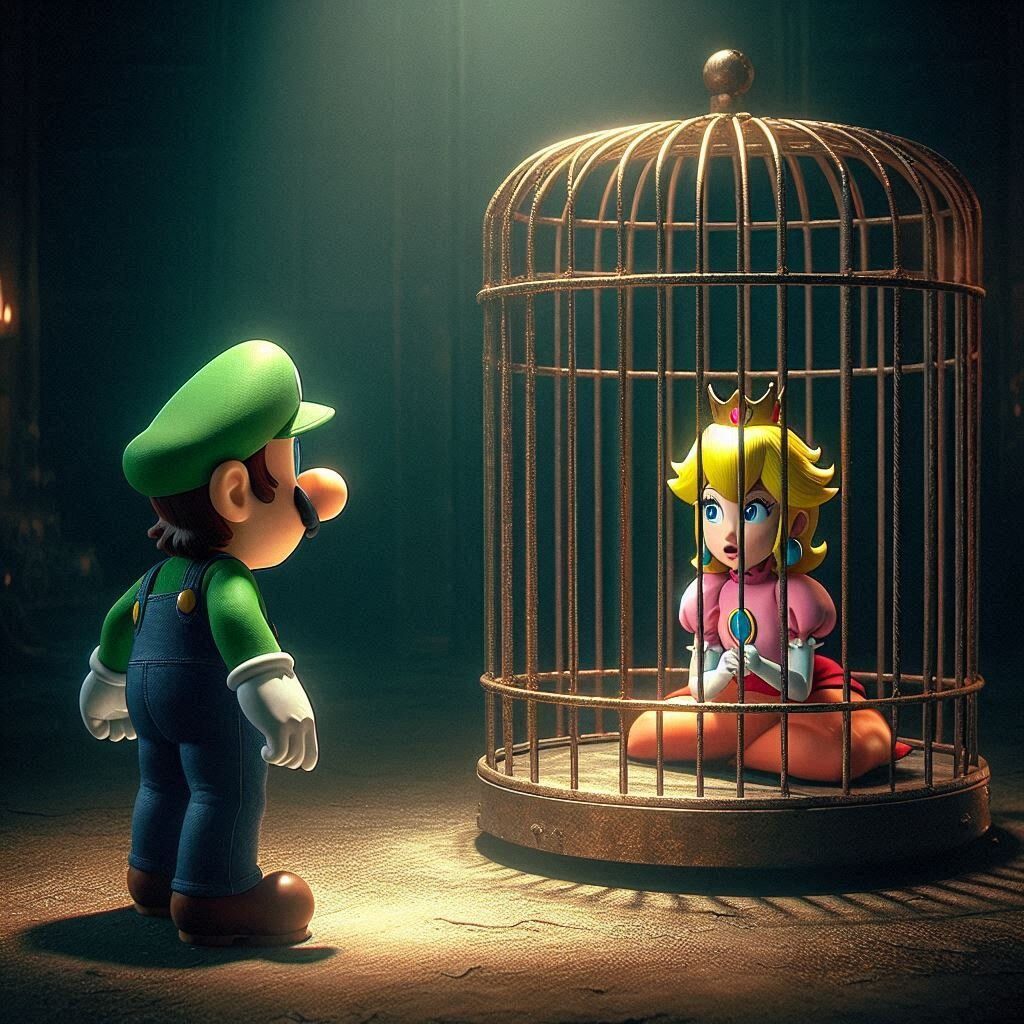
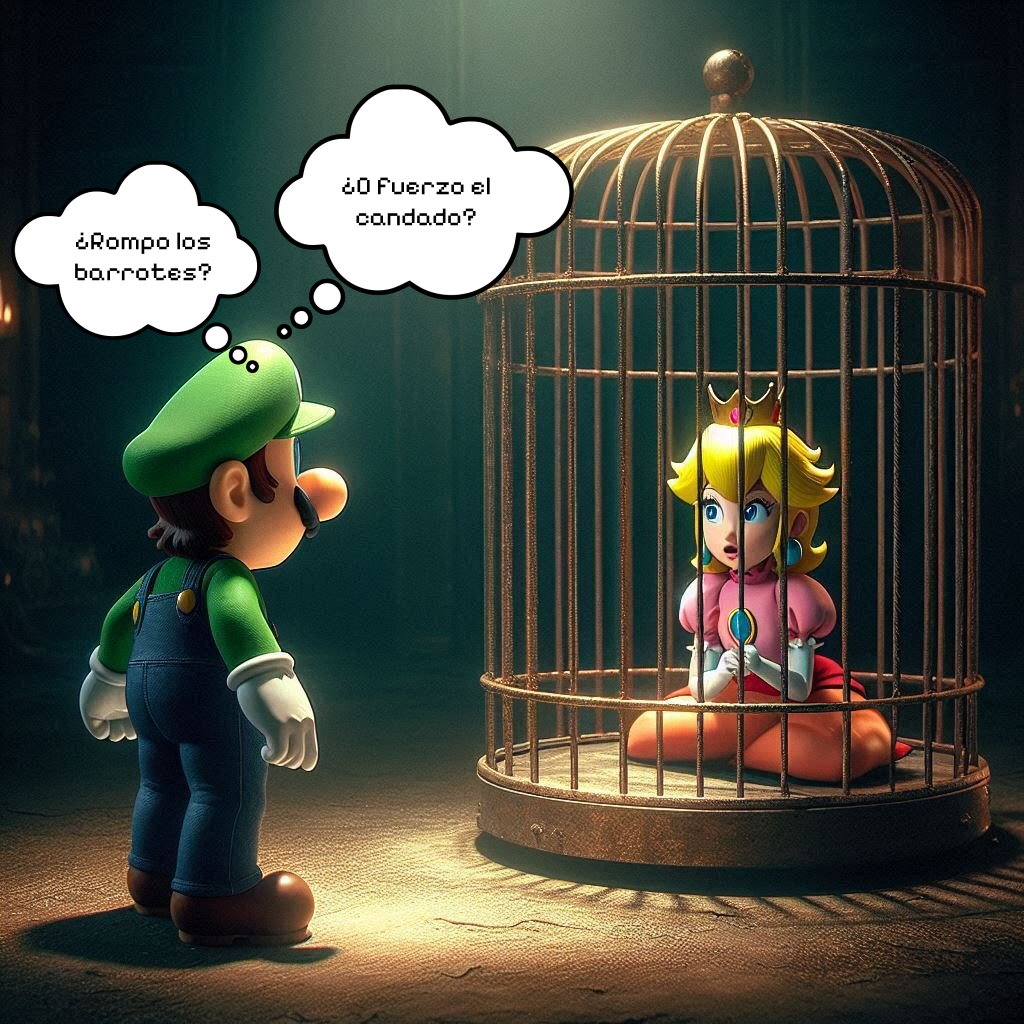
Add files via upload

Changed region(s): [[0.0, 0.0625, 0.5625, 0.375]]

diff --git a/prueba2/funciones.js b/prueba2/funciones.js
@@ -1,11 +1,35 @@
 function preload() {
+boton = loadImage("data/boton.png");  
 for(let m = 0; m < cantidadImg; m++) {
   imagenes[m] = loadImage("data/imagen" + m + ".jpg");
   }}
   
-function avanzar() {
-pantallaActual++;
-if (pantallaActual >= cantidadImg) {
-  pantallaActual = 0;
+function avanzar(opciones, pantallaOpcion1, pantallaOpcion2) {
+  if (opciones) {
+   if (mouseX > 72 && mouseX < 221 && mouseY > 178 && mouseY < 231){
+     pantallaActual = pantallaOpcion1;
+     } else if (mouseX > 431 && mouseX < 576 && mouseY > 175 && mouseY < 224){
+       pantallaActual = pantallaOpcion2;
+       }
+    } else {
+      pantallaActual++;
+      dibujarBoton();
+      }   
+  }
+
+function verificarPantalla(){
+  if(pantallaActual === 3){
+  decision = true;
+  } else {
+    decision = false;
+    dibujarBoton();
+    }
+    }
+
+function opciones(){
+  if (decision) {
+    avanzar(true, 4, 6);
+  } else if (mouseX > 500 && mouseX < 500 + 120 && mouseY > 340 && mouseY < 340 + 40){
+    avanzar(false);
   }
   }

diff --git a/prueba2/prueba2.js b/prueba2/prueba2.js
@@ -1,8 +1,10 @@
 let anchoPantalla = 640;
 let altoPantalla = 480;
 let imagenes = [];
-let cantidadImg = 23;
+let cantidadImg = 24;
 let pantallaActual = 0;
+let boton;
+let decision = false;
 
 function setup() {
 createCanvas(anchoPantalla,altoPantalla);
@@ -10,11 +12,12 @@ createCanvas(anchoPantalla,altoPantalla);
 
 
 function draw() {
-if (imagenes[pantallaActual]) {
 image(imagenes[pantallaActual], 0, 0, anchoPantalla, altoPantalla);
-  }
+verificarPantalla();
+cuadroTexto();
   }
 
 function mousePressed() {
-avanzar();
+opciones();
+console.log(mouseX,mouseY);
 }

diff --git a/prueba2/index.html b/prueba2/index.html
@@ -6,8 +6,8 @@
 
   <!-- PLEASE NO CHANGES BELOW THIS LINE (UNTIL I SAY SO) -->
   <script language="javascript" type="text/javascript" src="libraries/p5.min.js"></script>
-  <script language="javascript" type="text/javascript" src="complementos.js"></script>
   <script language="javascript" type="text/javascript" src="funciones.js"></script>
+  <script language="javascript" type="text/javascript" src="otros.js"></script>
   <script language="javascript" type="text/javascript" src="prueba2.js"></script>
   <!-- OK, YOU CAN MAKE CHANGES BELOW THIS LINE AGAIN -->
 

diff --git a/prueba2/otros.js b/prueba2/otros.js
@@ -1,0 +1,14 @@
+function dibujarBoton (){
+  image(boton, 500, 340, 120, 40);
+  }
+  
+function cuadroTexto() {
+  fill(255,196,47);
+  rect(anchoPantalla * 0.03,altoPantalla * 0.80,600,70);
+  }
+  
+function clickBoton() {
+  if (mouseX > 500 && mouseX < 500 + 120 && mouseY > 340 && mouseY < 340 + 40) {
+    avanzar();
+  }
+}
